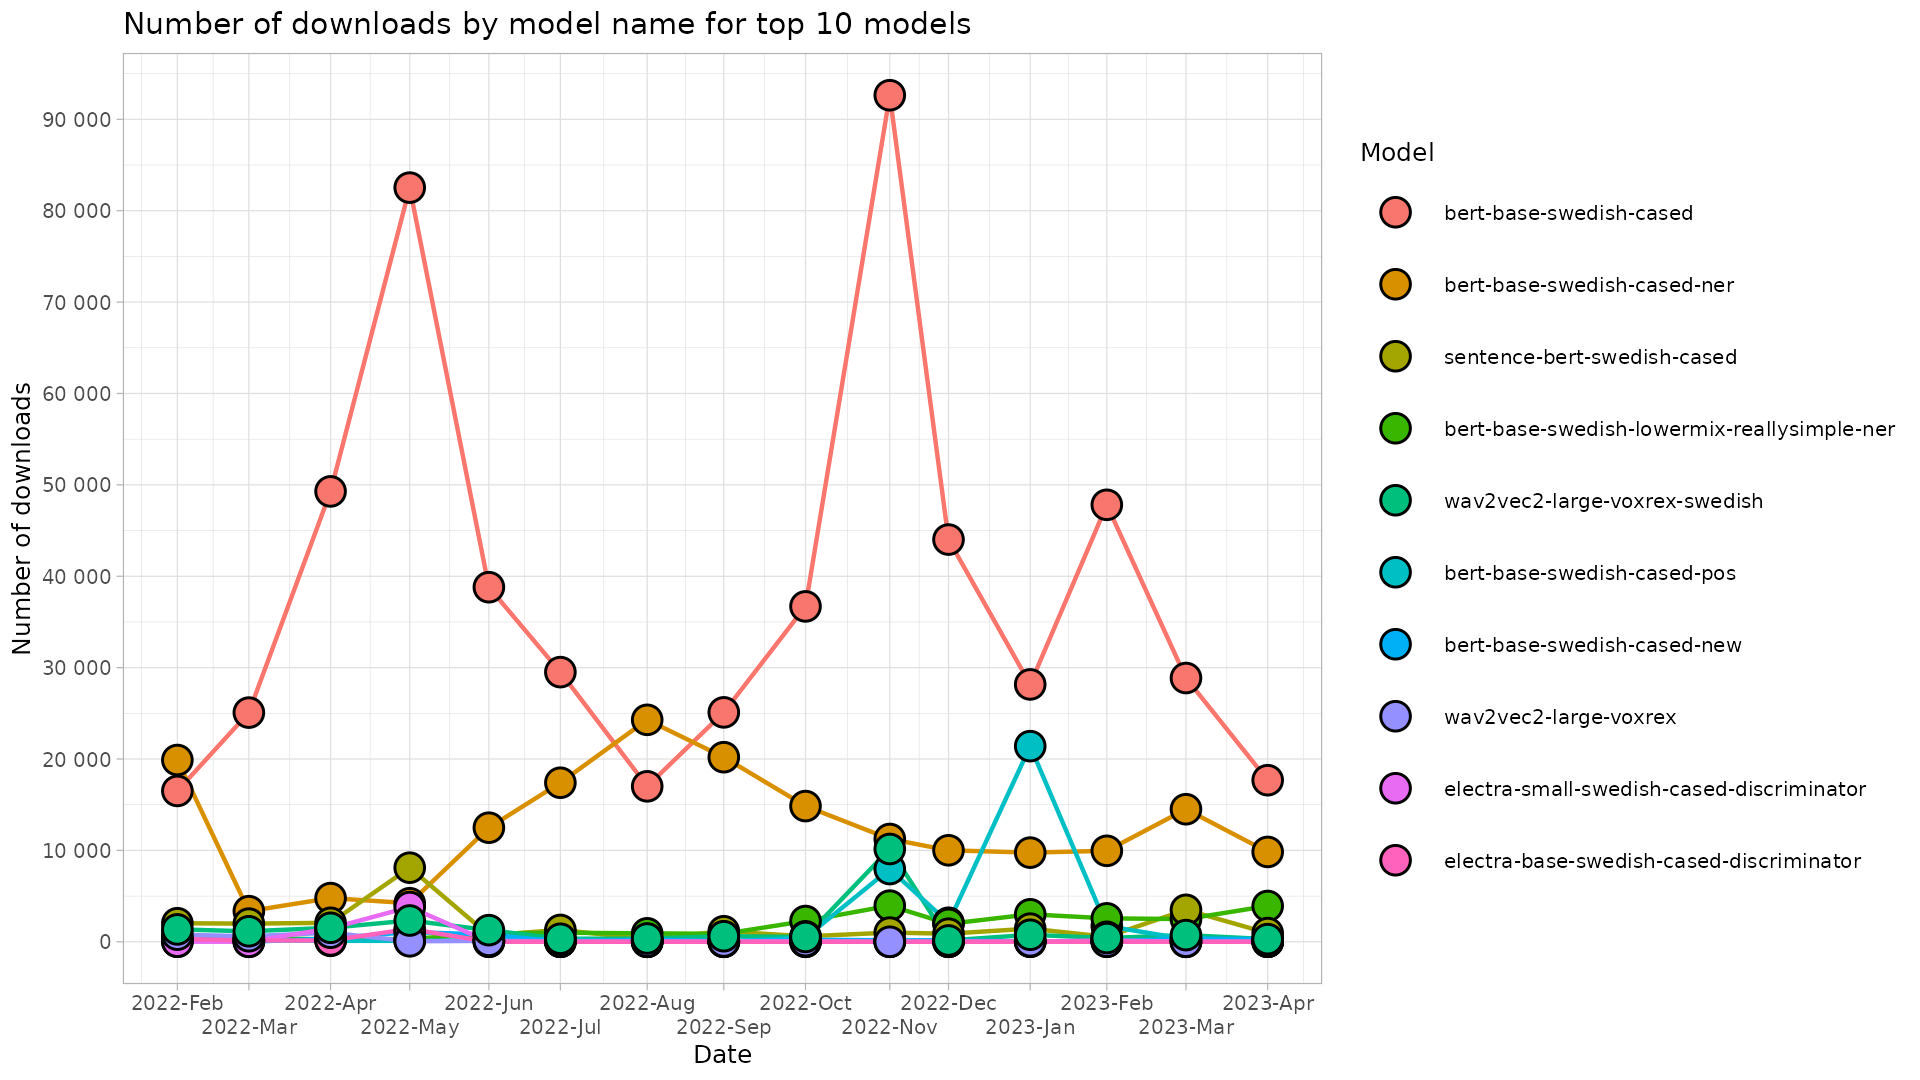
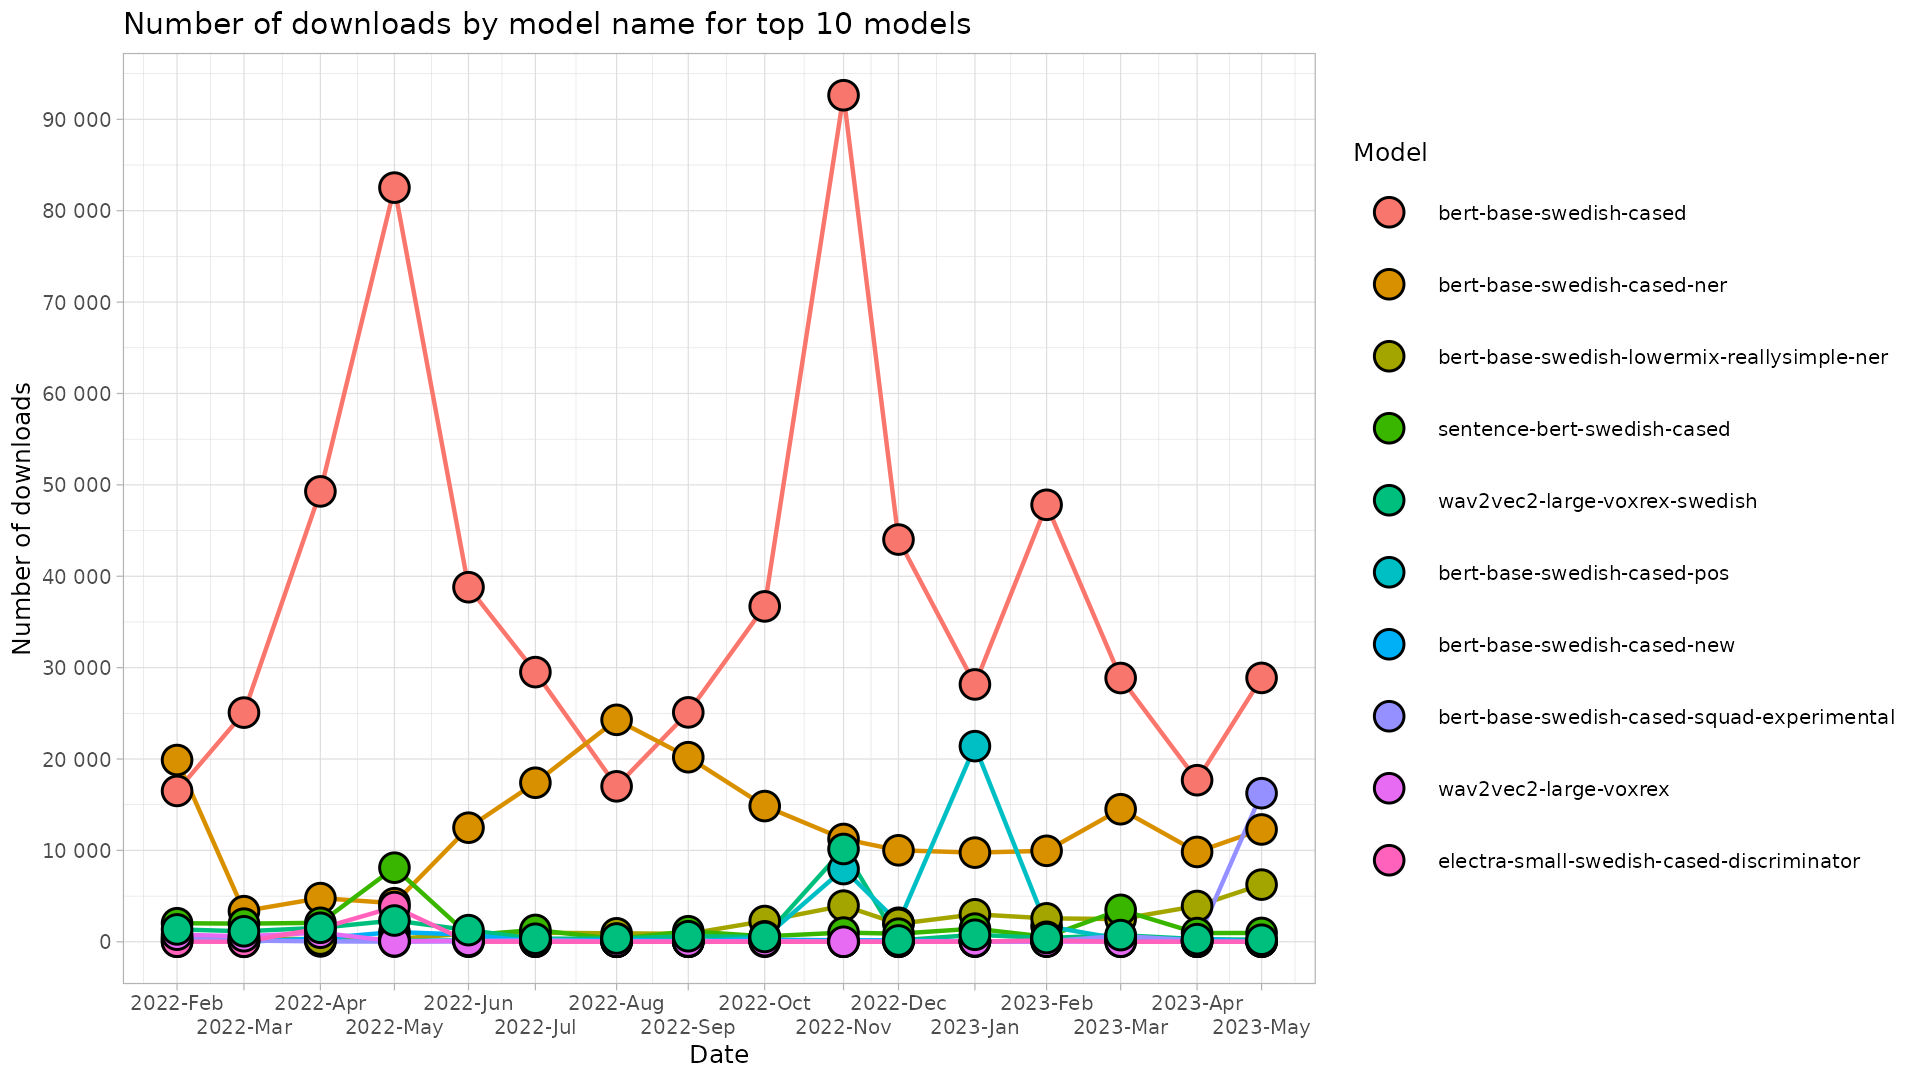
May 2023 update

diff --git a/README.md b/README.md
@@ -12,37 +12,38 @@ Script is run monthly, and a monthly `csv`-file outputted to `/data` folder.
 
 ## Table of downloads
 
-|model_name                                      | 2022-02| 2022-03| 2022-04| 2022-05| 2022-06| 2022-07| 2022-08| 2022-09| 2022-10| 2022-11| 2022-12| 2023-01| 2023-02| 2023-03| 2023-04|
-|:-----------------------------------------------|-------:|-------:|-------:|-------:|-------:|-------:|-------:|-------:|-------:|-------:|-------:|-------:|-------:|-------:|-------:|
-|albert-base-swedish-cased-alpha                 |     126|     252|      61|      52|      52|      28|      31|      17|      30|      64|     229|      37|      32|      75|      13|
-|asr-voxrex-bart-base                            |      11|      10|      19|       5|       2|       1|       1|       3|       2|       3|       2|       4|       9|      15|       7|
-|bart-base-swedish-cased                         |      74|      12|     116|     126|      32|      18|      41|      56|      81|       6|       9|      18|      41|      70|     110|
-|bert-base-swedish-cased                         |   16509|   25080|   49286|   82528|   38802|   29511|   17012|   25106|   36702|   92636|   44016|   28164|   47819|   28864|   17684|
-|bert-base-swedish-cased-alpha                   |      22|      24|    1362|      34|       8|      73|       7|      14|      14|      14|      10|     160|     151|       6|       9|
-|bert-base-swedish-cased-ner                     |   19891|    3353|    4783|    4221|   12487|   17406|   24290|   20200|   14852|   11251|   10014|    9759|    9957|   14508|    9834|
-|bert-base-swedish-cased-neriob                  |       8|      87|      34|      25|       4|      44|       2|       1|      62|      10|       5|      31|       5|       8|       6|
-|bert-base-swedish-cased-new                     |      NA|       0|     377|    1069|     786|      10|     238|      69|     225|     168|     163|      46|      44|     352|     303|
-|bert-base-swedish-cased-pos                     |     428|     179|     107|     104|     168|     310|       2|       2|     467|    7959|    2083|   21410|    1713|     300|      15|
-|bert-base-swedish-cased-reallysimple-ner        |       6|      32|       9|       7|      11|      10|       3|       8|      10|      17|       4|      16|     159|     401|     211|
-|bert-base-swedish-cased-squad-experimental      |     323|     136|      45|      23|      40|     182|      25|      27|     101|      10|      22|      62|      56|     643|     130|
-|bert-base-swedish-lowermix-reallysimple-ner     |       6|     453|     248|     312|     901|     991|     930|     871|    2274|    3958|    1963|    3010|    2567|    2485|    3919|
-|electra-base-swedish-cased-discriminator        |     317|     143|     149|    1404|       2|       3|       3|       3|       2|       5|       0|       7|       2|       0|       6|
-|electra-base-swedish-cased-generator            |       9|      15|      26|      31|       2|      19|       1|      18|       1|       9|       4|      10|       4|      14|      88|
-|electra-small-swedish-cased-discriminator       |      12|       5|    1467|    3804|      10|       5|       2|       2|       2|      10|       8|      12|     153|       1|       9|
-|electra-small-swedish-cased-generator           |      NA|       3|     138|      14|       4|      19|       2|       3|       4|       8|       6|      11|       4|       3|       6|
-|megatron-bert-base-swedish-cased-125k           |      NA|       0|     353|       0|       2|       8|       1|       3|     131|      55|     158|      27|      21|      19|       7|
-|megatron-bert-base-swedish-cased-600k           |      NA|      10|     288|      87|      30|      16|      16|      17|     111|      12|      20|     194|      27|      49|      13|
-|megatron-bert-large-swedish-cased-110k          |      NA|       0|     346|      77|       4|       4|       0|       1|       1|     171|     160|      15|       8|      23|       4|
-|megatron-bert-large-swedish-cased-165-zero-shot |      NA|      NA|      NA|      NA|      NA|      NA|      NA|      NA|      NA|      NA|       5|      55|      26|      63|      20|
-|megatron-bert-large-swedish-cased-165k          |      NA|      NA|       9|      13|      40|      19|      53|       2|      18|     336|     327|      21|      34|      67|      43|
-|roberta-base-swedish-cased                      |       7|       7|     471|       8|      78|       5|      67|       2|       0|       5|       5|      37|     150|       3|       6|
-|sentence-bert-swedish-cased                     |    2033|    1988|    2079|    8110|     721|    1299|     304|    1157|     597|    1008|     887|    1441|     546|    3499|     955|
-|swedish-spacy-pipeline                          |      65|      22|       5|       2|       5|       9|       1|       2|       0|       1|       3|       4|       6|      90|       3|
-|wav2vec2-base-voxpopuli-sv-swedish              |      NA|      21|      19|       7|       1|      NA|       1|       5|      99|       6|       2|      13|      57|      12|      56|
-|wav2vec2-large-voxpopuli-sv-swedish             |      58|      32|      73|      57|      24|       5|       5|      11|      59|      15|       7|      23|       9|      10|      13|
-|wav2vec2-large-voxrex                           |     780|     609|     996|      57|     102|      55|      13|      34|      74|       4|       0|      56|      17|      11|       8|
-|wav2vec2-large-voxrex-swedish                   |    1356|    1151|    1534|    2331|    1277|     334|     361|     611|     531|   10157|     146|     770|     411|     732|     290|
-|wav2vec2-large-xlsr-53-swedish                  |      NA|     112|      55|      32|     259|      91|      19|       9|      61|      26|     307|      71|      32|      76|      26|
-|whisper-large-rixvox                            |      NA|      NA|      NA|      NA|      NA|      NA|      NA|      NA|      NA|      NA|      NA|      NA|      NA|     113|      56|
-|whisper-small-rixvox                            |      NA|      NA|      NA|      NA|      NA|      NA|      NA|      NA|      NA|      NA|      NA|      NA|      NA|       3|       1|
-|whisper-tiny-rixvox                             |      NA|      NA|      NA|      NA|      NA|      NA|      NA|      NA|      NA|      NA|      NA|      NA|      NA|       9|       1|
+|model_name                                      | 2022-02| 2022-03| 2022-04| 2022-05| 2022-06| 2022-07| 2022-08| 2022-09| 2022-10| 2022-11| 2022-12| 2023-01| 2023-02| 2023-03| 2023-04| 2023-05|
+|:-----------------------------------------------|-------:|-------:|-------:|-------:|-------:|-------:|-------:|-------:|-------:|-------:|-------:|-------:|-------:|-------:|-------:|-------:|
+|albert-base-swedish-cased-alpha                 |     126|     252|      61|      52|      52|      28|      31|      17|      30|      64|     229|      37|      32|      75|      13|      17|
+|asr-voxrex-bart-base                            |      11|      10|      19|       5|       2|       1|       1|       3|       2|       3|       2|       4|       9|      15|       7|       2|
+|bart-base-swedish-cased                         |      74|      12|     116|     126|      32|      18|      41|      56|      81|       6|       9|      18|      41|      70|     110|      60|
+|bert-base-swedish-cased                         |   16509|   25080|   49286|   82528|   38802|   29511|   17012|   25106|   36702|   92636|   44016|   28164|   47819|   28864|   17684|   28878|
+|bert-base-swedish-cased-alpha                   |      22|      24|    1362|      34|       8|      73|       7|      14|      14|      14|      10|     160|     151|       6|       9|       5|
+|bert-base-swedish-cased-ner                     |   19891|    3353|    4783|    4221|   12487|   17406|   24290|   20200|   14852|   11251|   10014|    9759|    9957|   14508|    9834|   12293|
+|bert-base-swedish-cased-neriob                  |       8|      87|      34|      25|       4|      44|       2|       1|      62|      10|       5|      31|       5|       8|       6|       6|
+|bert-base-swedish-cased-new                     |      NA|       0|     377|    1069|     786|      10|     238|      69|     225|     168|     163|      46|      44|     352|     303|      33|
+|bert-base-swedish-cased-pos                     |     428|     179|     107|     104|     168|     310|       2|       2|     467|    7959|    2083|   21410|    1713|     300|      15|      28|
+|bert-base-swedish-cased-reallysimple-ner        |       6|      32|       9|       7|      11|      10|       3|       8|      10|      17|       4|      16|     159|     401|     211|     334|
+|bert-base-swedish-cased-squad-experimental      |     323|     136|      45|      23|      40|     182|      25|      27|     101|      10|      22|      62|      56|     643|     130|   16262|
+|bert-base-swedish-lowermix-reallysimple-ner     |       6|     453|     248|     312|     901|     991|     930|     871|    2274|    3958|    1963|    3010|    2567|    2485|    3919|    6258|
+|electra-base-swedish-cased-discriminator        |     317|     143|     149|    1404|       2|       3|       3|       3|       2|       5|       0|       7|       2|       0|       6|       7|
+|electra-base-swedish-cased-generator            |       9|      15|      26|      31|       2|      19|       1|      18|       1|       9|       4|      10|       4|      14|      88|      78|
+|electra-small-swedish-cased-discriminator       |      12|       5|    1467|    3804|      10|       5|       2|       2|       2|      10|       8|      12|     153|       1|       9|       2|
+|electra-small-swedish-cased-generator           |      NA|       3|     138|      14|       4|      19|       2|       3|       4|       8|       6|      11|       4|       3|       6|      14|
+|megatron-bert-base-swedish-cased-125k           |      NA|       0|     353|       0|       2|       8|       1|       3|     131|      55|     158|      27|      21|      19|       7|       6|
+|megatron-bert-base-swedish-cased-600k           |      NA|      10|     288|      87|      30|      16|      16|      17|     111|      12|      20|     194|      27|      49|      13|      15|
+|megatron-bert-large-swedish-cased-110k          |      NA|       0|     346|      77|       4|       4|       0|       1|       1|     171|     160|      15|       8|      23|       4|       2|
+|megatron-bert-large-swedish-cased-165-zero-shot |      NA|      NA|      NA|      NA|      NA|      NA|      NA|      NA|      NA|      NA|       5|      55|      26|      63|      20|     621|
+|megatron-bert-large-swedish-cased-165k          |      NA|      NA|       9|      13|      40|      19|      53|       2|      18|     336|     327|      21|      34|      67|      43|      56|
+|piper-tts-nst-swedish                           |      NA|      NA|      NA|      NA|      NA|      NA|      NA|      NA|      NA|      NA|      NA|      NA|      NA|      NA|      NA|       1|
+|roberta-base-swedish-cased                      |       7|       7|     471|       8|      78|       5|      67|       2|       0|       5|       5|      37|     150|       3|       6|     204|
+|sentence-bert-swedish-cased                     |    2033|    1988|    2079|    8110|     721|    1299|     304|    1157|     597|    1008|     887|    1441|     546|    3499|     955|     970|
+|swedish-spacy-pipeline                          |      65|      22|       5|       2|       5|       9|       1|       2|       0|       1|       3|       4|       6|      90|       3|       1|
+|wav2vec2-base-voxpopuli-sv-swedish              |      NA|      21|      19|       7|       1|      NA|       1|       5|      99|       6|       2|      13|      57|      12|      56|       4|
+|wav2vec2-large-voxpopuli-sv-swedish             |      58|      32|      73|      57|      24|       5|       5|      11|      59|      15|       7|      23|       9|      10|      13|      10|
+|wav2vec2-large-voxrex                           |     780|     609|     996|      57|     102|      55|      13|      34|      74|       4|       0|      56|      17|      11|       8|      17|
+|wav2vec2-large-voxrex-swedish                   |    1356|    1151|    1534|    2331|    1277|     334|     361|     611|     531|   10157|     146|     770|     411|     732|     290|     225|
+|wav2vec2-large-xlsr-53-swedish                  |      NA|     112|      55|      32|     259|      91|      19|       9|      61|      26|     307|      71|      32|      76|      26|      31|
+|whisper-large-rixvox                            |      NA|      NA|      NA|      NA|      NA|      NA|      NA|      NA|      NA|      NA|      NA|      NA|      NA|     113|      56|       8|
+|whisper-small-rixvox                            |      NA|      NA|      NA|      NA|      NA|      NA|      NA|      NA|      NA|      NA|      NA|      NA|      NA|       3|       1|       6|
+|whisper-tiny-rixvox                             |      NA|      NA|      NA|      NA|      NA|      NA|      NA|      NA|      NA|      NA|      NA|      NA|      NA|       9|       1|       5|
